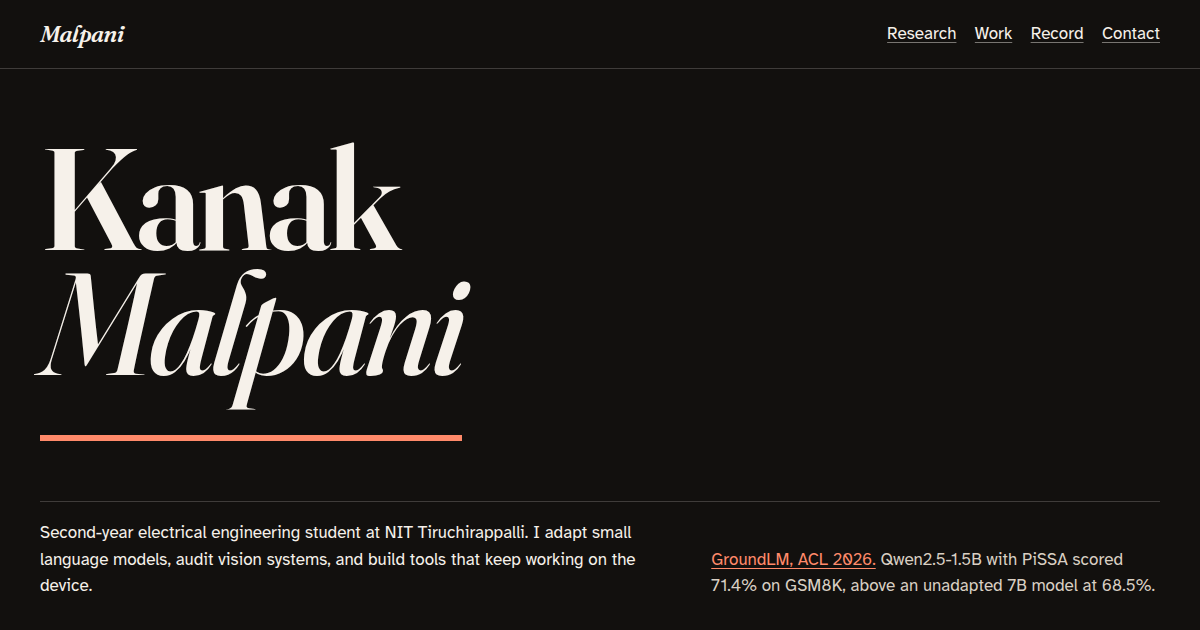
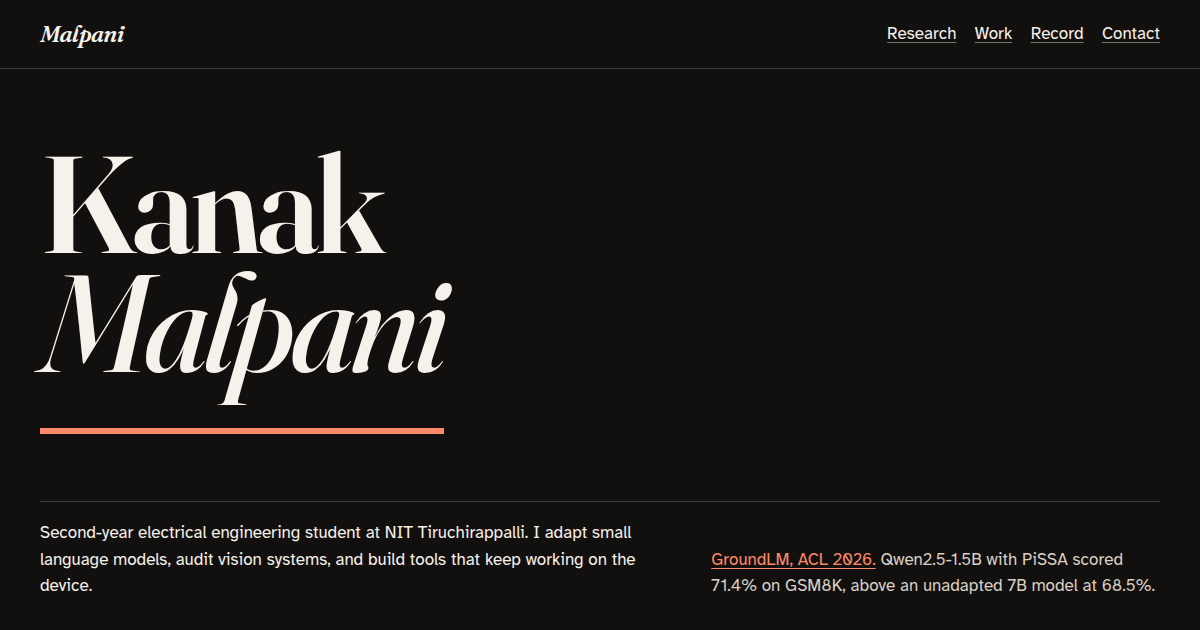
Give the folio a clearer order of importance.
Nadaka and the binary-network benchmark lead the work, with the benchmark as a small table. The record sits in two columns, and the name grows on large screens while the opening result stays in view.

diff --git a/index.html b/index.html
@@ -152,6 +152,49 @@
         <div class="wrap">
           <h2 id="work-title">Work</h2>
 
+          <div class="leads">
+            <article class="lead" id="nadaka">
+              <h3>Nadaka</h3>
+              <p class="lead-line">iQOO Hyderabad · 1st runner-up · ₹80,000</p>
+              <p>
+                On-device walking-safety assistant for blind and low-vision users.
+                Obstacle alerts, haptics, and speech, with the model on the device.
+              </p>
+              <p>
+                <a class="out" href="https://github.com/aadityaa0523/iqoo-Hyderabad">Nadaka repository</a>
+              </p>
+            </article>
+            <article class="lead" id="binary-nets">
+              <h3>Binary-Neural-Networks</h3>
+              <p>
+                Packed binary and ternary CPU inference with XNOR–popcount kernels.
+                Independent project.
+              </p>
+              <table class="sheet">
+                <caption>64×4096×4096 CPU benchmark</caption>
+                <thead>
+                  <tr>
+                    <th scope="col">Measure</th>
+                    <th scope="col">Against NumPy FP32</th>
+                  </tr>
+                </thead>
+                <tbody>
+                  <tr>
+                    <th scope="row">Weight</th>
+                    <td>32× smaller</td>
+                  </tr>
+                  <tr>
+                    <th scope="row">Execution</th>
+                    <td>about 24× faster</td>
+                  </tr>
+                </tbody>
+              </table>
+              <p>
+                <a class="out" href="https://github.com/KanakMalpani/Binary-Neural-Networks">Binary-Neural-Networks repository</a>
+              </p>
+            </article>
+          </div>
+
           <div class="group">
             <h3>Competitions</h3>
             <div class="entries">
@@ -164,17 +207,6 @@
                   <span>PEC Hacks</span>
                   <span>₹60,000</span>
                   <a class="out" href="https://github.com/anubhavsinha201/CONGNIVISTA">ArogyaX repository</a>
-                </p>
-              </article>
-              <article class="entry">
-                <h4>Nadaka</h4>
-                <p>
-                  On-device walking-safety assistant for blind and low-vision users, with obstacle alerts, haptics, and speech.
-                </p>
-                <p class="meta">
-                  <span>iQOO Hyderabad · 1st runner-up</span>
-                  <span>₹80,000</span>
-                  <a class="out" href="https://github.com/aadityaa0523/iqoo-Hyderabad">Nadaka repository</a>
                 </p>
               </article>
               <article class="entry">
@@ -221,17 +253,6 @@
                 </p>
               </article>
               <article class="entry">
-                <h4>Binary-Neural-Networks</h4>
-                <p>
-                  Packed binary and ternary CPU inference with XNOR–popcount kernels. Reports 32× weight compression
-                  and about 24× faster execution than NumPy FP32 on a 64×4096×4096 benchmark.
-                </p>
-                <p class="meta">
-                  <span>Independent</span>
-                  <a class="out" href="https://github.com/KanakMalpani/Binary-Neural-Networks" aria-label="Binary-Neural-Networks repository">Repository</a>
-                </p>
-              </article>
-              <article class="entry">
                 <h4>Self-Learning-Vision</h4>
                 <p>
                   Local-first visual memory for face detection, unknown-entity clustering, and recognition,
@@ -271,12 +292,12 @@
                   <a class="out" href="https://github.com/KanakMalpani/Autonomous-Startup-in-a-Box" aria-label="Autonomous-Startup-in-a-Box repository">Repository</a>
                 </p>
               </article>
-              <article class="entry">
+              <article class="entry quiet">
                 <h4>AI for Lawyers</h4>
                 <p>A tool for lawyers. Currently in MVP testing.</p>
                 <p class="meta"><span>In progress</span></p>
               </article>
-              <article class="entry">
+              <article class="entry quiet">
                 <h4>Drone build</h4>
                 <p>Designed, assembled, and configured a flying drone in 20 days. Reached the semi-finals.</p>
                 <p class="meta"><span>NIT Trichy Technical Fest</span></p>
@@ -355,7 +376,7 @@
               </ul>
             </article>
 
-            <article>
+            <article class="aside">
               <h3>Awards</h3>
               <ul>
                 <li>
@@ -373,7 +394,7 @@
               </ul>
             </article>
 
-            <article>
+            <article class="wide">
               <h3>Skills</h3>
               <p>
                 Python and C. Machine learning, deep learning, and computer vision. AI pipeline design.

diff --git a/styles.css b/styles.css
@@ -209,15 +209,23 @@ a:hover {
   justify-content: flex-end;
   padding-block: clamp(1.5rem, 5vh, 3.5rem);
   gap: clamp(1.5rem, 4vh, 2.75rem);
+  container-type: inline-size;
 }
 
 h1 {
   margin: auto 0;
+  max-width: 100%;
   font-family: var(--serif);
   font-weight: 600;
-  font-size: clamp(4rem, min(16vw, 23vh), 12rem);
+  font-size: clamp(4rem, min(26cqi, 22svh), 18rem);
   letter-spacing: -0.035em;
   line-height: 0.86;
+}
+
+@media (min-width: 1600px) and (min-height: 1100px) {
+  h1 {
+    font-size: clamp(4rem, min(34cqi, 22svh), 20rem);
+  }
 }
 
 .kanak,
@@ -318,7 +326,8 @@ h1 {
   margin: 0 0 1rem;
 }
 
-.gap {
+.gap,
+.sheet {
   width: min(100%, 44rem);
   border-collapse: collapse;
   margin: 0.4rem 0 1.25rem;
@@ -335,7 +344,8 @@ h1 {
   width: 11rem;
 }
 
-.gap caption {
+.gap caption,
+.sheet caption {
   caption-side: top;
   text-align: left;
   font-family: var(--serif);
@@ -346,7 +356,9 @@ h1 {
 }
 
 .gap th,
-.gap td {
+.gap td,
+.sheet th,
+.sheet td {
   text-align: left;
   vertical-align: top;
   padding: 0.7rem 1rem 0.7rem 0;
@@ -354,19 +366,72 @@ h1 {
   font-weight: 400;
 }
 
-.gap thead th {
+.gap thead th,
+.sheet thead th {
   color: var(--ink-soft);
   font-size: 0.92rem;
   font-weight: 700;
 }
 
 .gap td:last-child,
-.gap th:last-child {
+.gap th:last-child,
+.sheet td:last-child,
+.sheet th:last-child {
   padding-right: 0;
 }
 
-.gap td:last-child {
+.gap td:last-child,
+.sheet td:last-child {
   white-space: nowrap;
+}
+
+.leads {
+  display: grid;
+  grid-template-columns: 1fr 1fr;
+  gap: 2.5rem 3.5rem;
+  margin-bottom: 4.25rem;
+  padding-bottom: 0.25rem;
+}
+
+.lead h3 {
+  margin: 0 0 0.7rem;
+  font-family: var(--serif);
+  font-weight: 560;
+  font-size: clamp(2.15rem, 3vw, 3rem);
+  letter-spacing: -0.03em;
+  line-height: 1.05;
+}
+
+.lead p {
+  margin: 0 0 0.9rem;
+}
+
+.lead-line {
+  font-family: var(--serif);
+  font-style: italic;
+  font-size: 1.3rem;
+  letter-spacing: -0.02em;
+  color: var(--ink);
+}
+
+.lead .sheet {
+  width: 100%;
+  margin-top: 0.2rem;
+}
+
+.entry.quiet h4 {
+  font-family: var(--sans);
+  font-size: 1.05rem;
+  font-weight: 700;
+  letter-spacing: 0;
+}
+
+.aside li {
+  color: var(--ink-soft);
+}
+
+.aside strong {
+  color: var(--ink);
 }
 
 .band {
@@ -419,6 +484,18 @@ h1 {
 .record {
   display: grid;
   gap: 3rem;
+}
+
+@media (min-width: 960px) {
+  .record {
+    grid-template-columns: 1fr 1fr;
+    column-gap: 4rem;
+    align-items: start;
+  }
+
+  .record .wide {
+    grid-column: 1 / -1;
+  }
 }
 
 .record article > :last-child {
@@ -555,7 +632,8 @@ a.out::after {
 
   .lede,
   .entry,
-  .facts li {
+  .facts li,
+  .leads {
     grid-template-columns: 1fr;
   }
 
